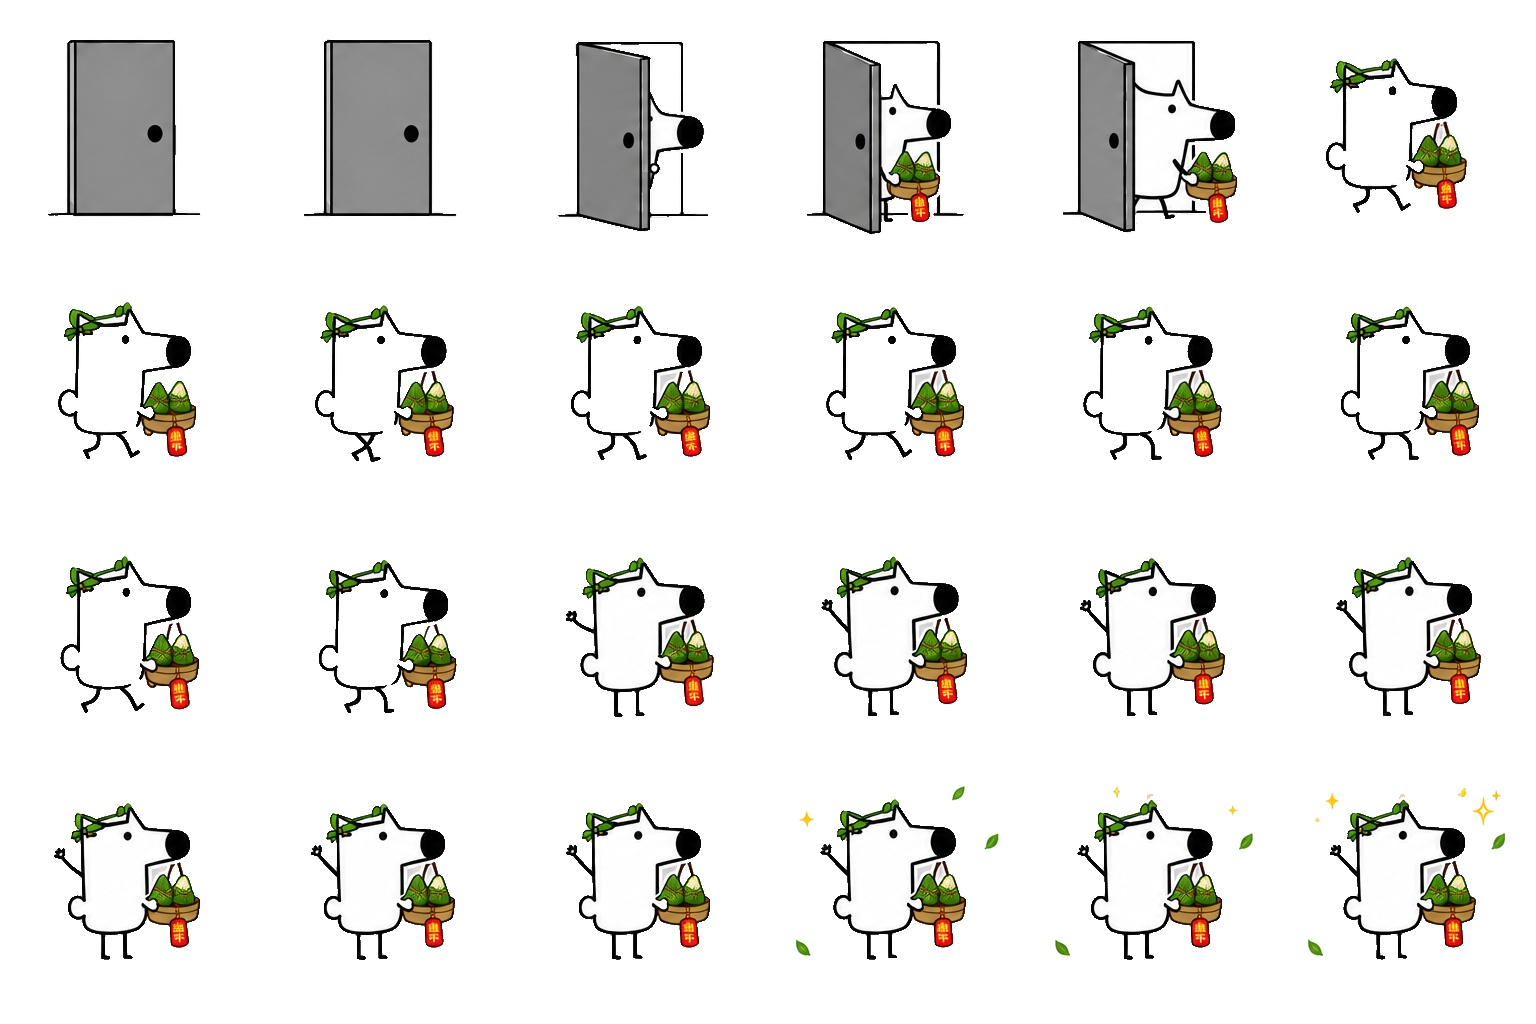
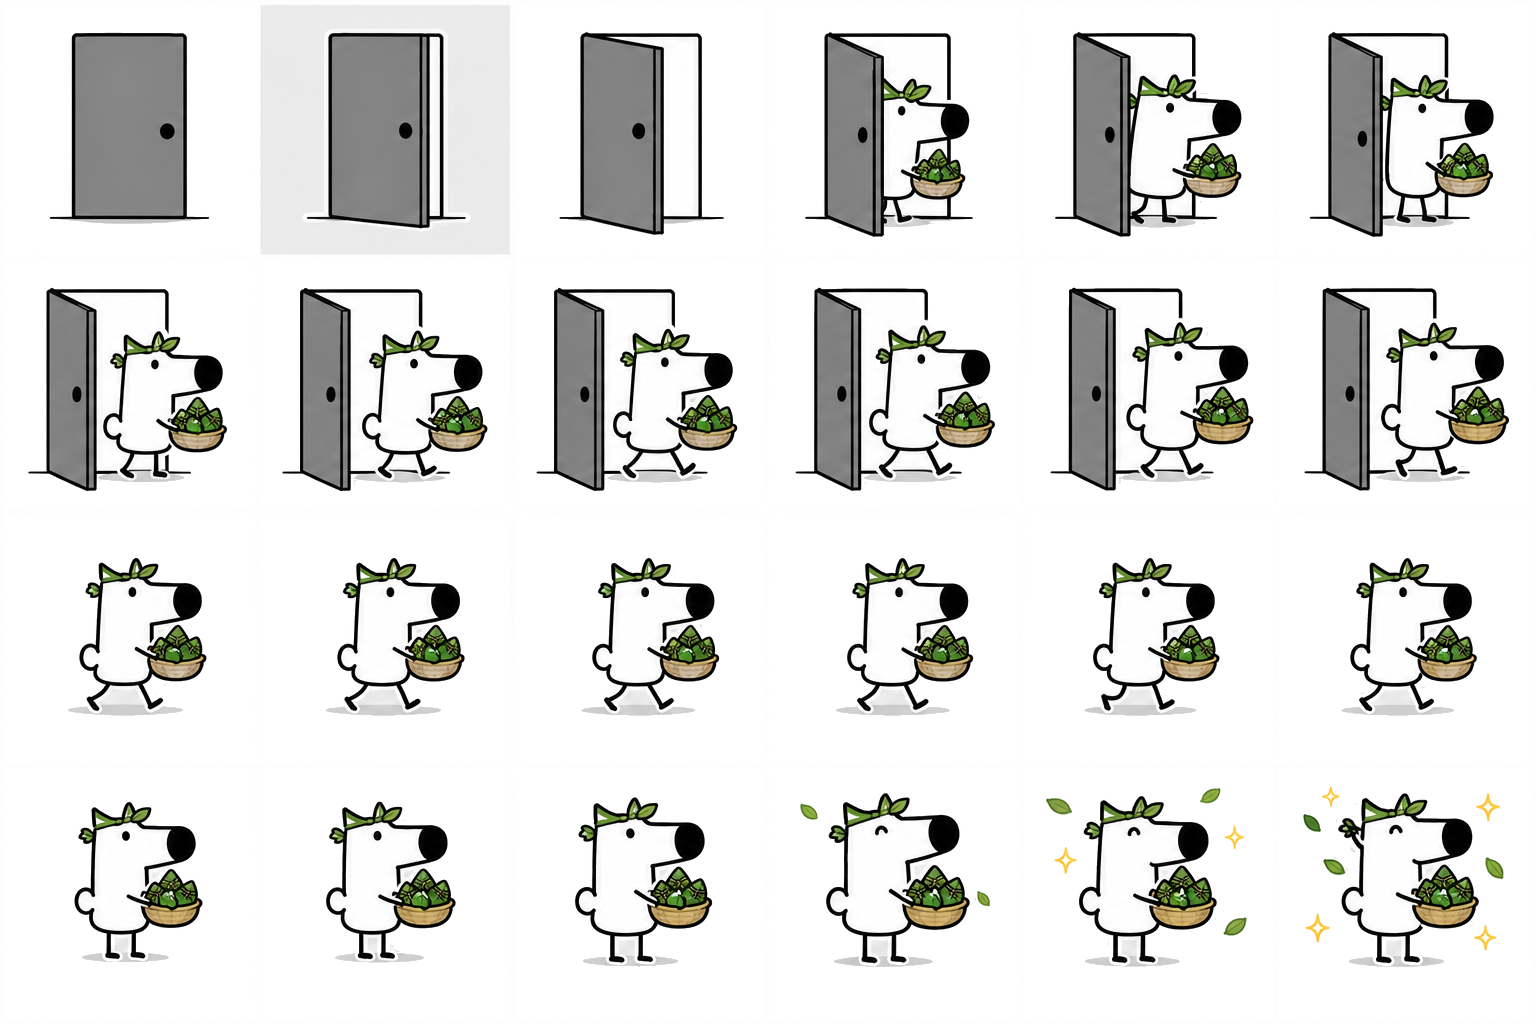
fix: MBTI 监听器累积导致配置丢失 + 更新 API 申请 URL
- preload.ts: onLoad/onApps/onInstalledApps 注册前 removeAllListeners 防止 reload 后旧回调阻断新回调
- main.ts: openApiPage URL → zhihu.com/ring/moltbook

diff --git a/electron/preload.ts b/electron/preload.ts
@@ -71,9 +71,11 @@ contextBridge.exposeInMainWorld('screenToySettings', {
     ipcRenderer.send('apply-settings', settings);
   },
   onLoad: (callback: (settings: any) => void) => {
+    ipcRenderer.removeAllListeners('settings-current');
     ipcRenderer.on('settings-current', (_event, settings) => callback(settings));
   },
   onApps: (callback: (apps: any) => void) => {
+    ipcRenderer.removeAllListeners('available-apps');
     ipcRenderer.on('available-apps', (_event, apps) => callback(apps));
   },
   requestCurrent: () => {
@@ -92,6 +94,7 @@ contextBridge.exposeInMainWorld('screenToySettings', {
     ipcRenderer.send('get-installed-apps');
   },
   onInstalledApps: (callback: (apps: string[]) => void) => {
+    ipcRenderer.removeAllListeners('installed-apps');
     ipcRenderer.on('installed-apps', (_event, apps) => callback(apps));
   },
   openApiPage: () => {

diff --git a/electron/main.ts b/electron/main.ts
@@ -626,7 +626,7 @@ ipcMain.handle('kb-get-conversations', () => {
 // ---- Open API page ----
 ipcMain.on('open-api-page', () => {
   const { shell } = require('electron');
-  shell.openExternal('https://developer.zhihu.com/profile');
+  shell.openExternal('https://www.zhihu.com/ring/moltbook');
 });
 
 // ---- Bubble window ----